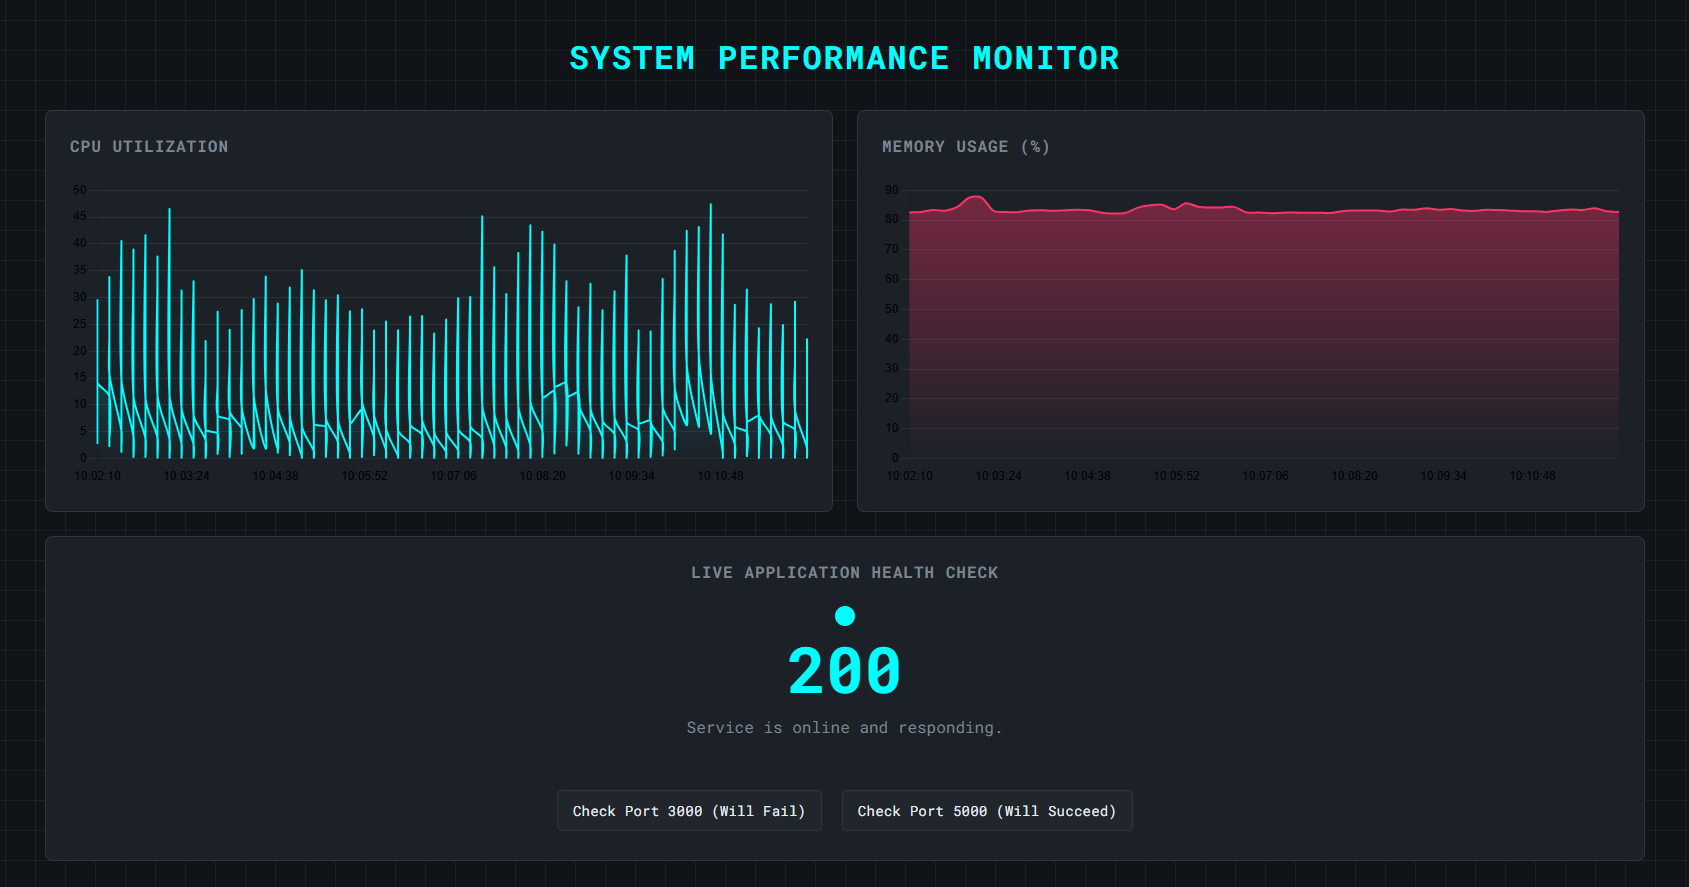
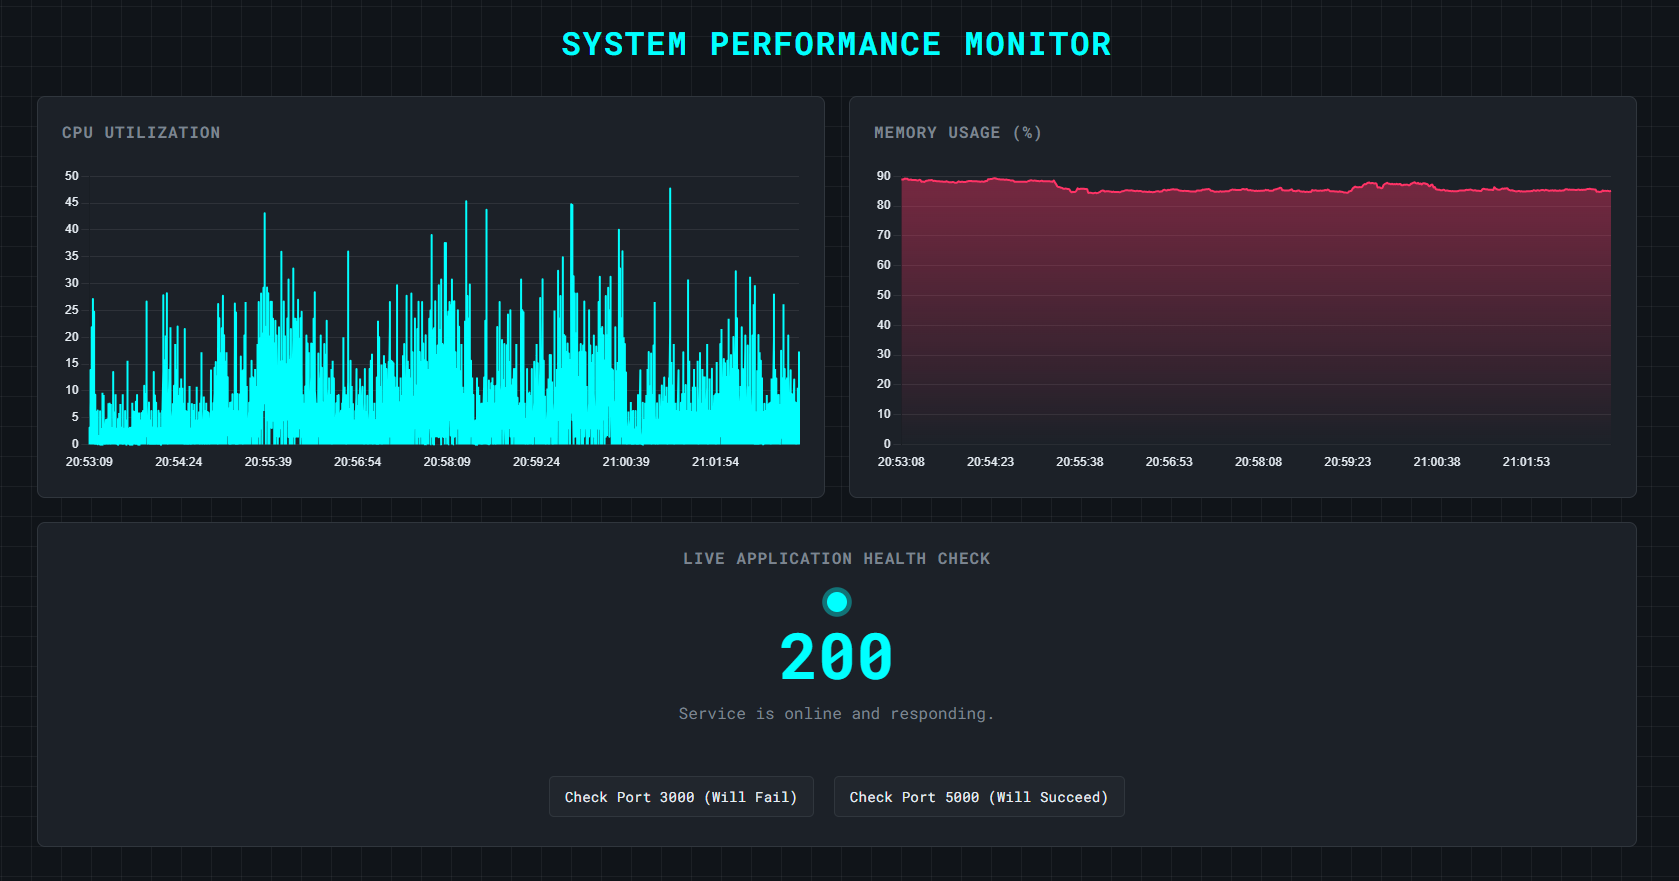
feat: Overhaul dashboard UI with dark theme and live updates

diff --git a/frontend/index.html b/frontend/index.html
@@ -134,6 +134,7 @@
                 grid-template-columns: 1fr;
             }
         }
+
     </style>
 </head>
 <body>
@@ -171,21 +172,26 @@
 
     <script>
         const chartInstances = {};
-        Chart.defaults.color = "var(--text-secondary)";
+        
+        // --- THIS IS THE PRIMARY FIX ---
+        // Get the computed primary text color from CSS after the page loads
+        const primaryTextColor = getComputedStyle(document.documentElement).getPropertyValue('--text-primary').trim();
+        // Set the global default color for all chart text to the actual color string
+        Chart.defaults.color = primaryTextColor;
+        // --- END FIX ---
 
         const chartOptions = {
             maintainAspectRatio: false,
             scales: {
                 y: {
                     beginAtZero: true,
-                    grid: { color: 'rgba(255, 255, 255, 0.08)' },
-                    ticks: { color: "var(--text-secondary)" }
+                    grid: { color: 'rgba(255, 255, 255, 0.08)' }
                 },
                 x: {
                     type: 'time',
                     time: { unit: 'second', tooltipFormat: 'HH:mm:ss', displayFormats: { second: 'HH:mm:ss' } },
                     grid: { display: false },
-                    ticks: { color: "var(--text-secondary)", maxRotation: 0, autoSkip: true, maxTicksLimit: 8 }
+                    ticks: { maxRotation: 0, autoSkip: true, maxTicksLimit: 8 }
                 }
             },
             plugins: {
@@ -271,16 +277,15 @@
                 c = '0x' + c.join('');
                 return { r: (c >> 16) & 255, g: (c >> 8) & 255, b: c & 255 };
             }
-            throw new Error('Bad Hex');
+            const colorName = hex.replace('var(', '').replace(')', '');
+            const computedColor = getComputedStyle(document.documentElement).getPropertyValue(colorName).trim();
+            return hexToRgb(computedColor);
         };
 
         document.addEventListener('DOMContentLoaded', () => {
-            // --- FIX IS HERE ---
-            // Read the computed color values from CSS first
             const cyanColor = getComputedStyle(document.documentElement).getPropertyValue('--accent-cyan').trim();
             const redColor = getComputedStyle(document.documentElement).getPropertyValue('--accent-red').trim();
 
-            // Pass the resolved hex codes to the charts
             createChart('cpuChart', 'CPU Usage', cyanColor);
             createChart('memChart', 'Memory Usage', redColor);
 
